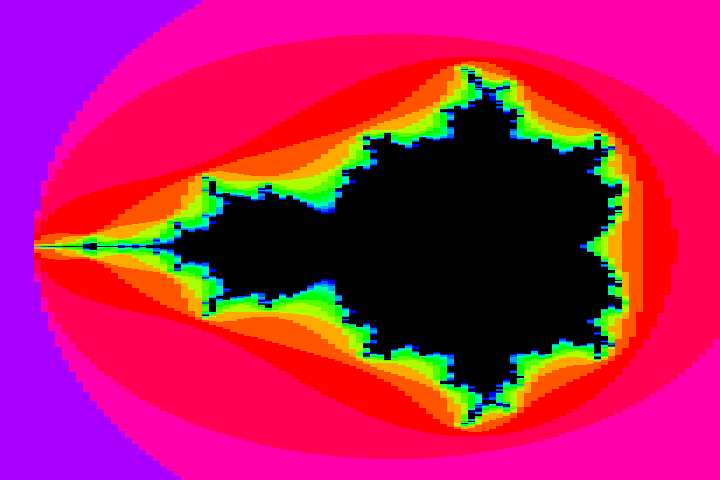
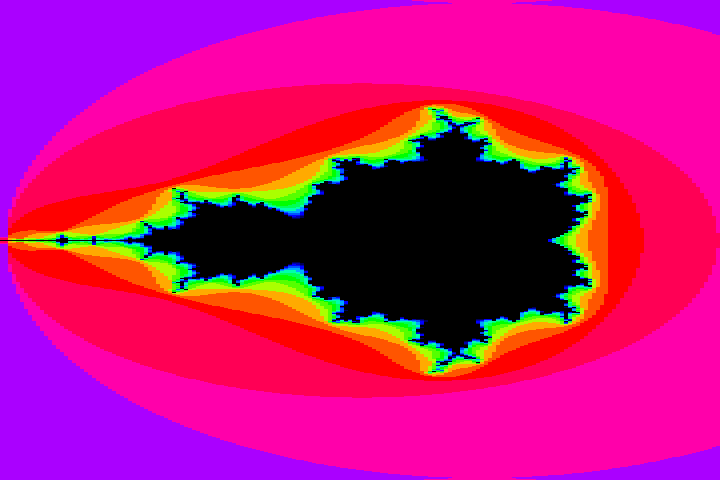
Update docs

diff --git a/docs/info.md b/docs/info.md
@@ -11,13 +11,13 @@ You can also include images in this folder and reference them in the markdown. E
 
 The Mandelbrot fractal is computed "racing the beam" and displayed through the [TinyVGA Pmod](https://github.com/mole99/tiny-vga).
 
-One iteration of the computation is done over two clock cycles, and a maximum iteration depth of 14 iterations is used.  The design is clocked at 100MHz, allowing four clock cycles per 25MHz pixel clock.  This means one value is computed every 7 pixels, giving a result like this:
+One iteration of the computation is done every clock cycle, and a maximum iteration depth of 16 iterations is used.  The design is clocked at 100MHz, allowing four clock cycles per 25MHz pixel clock.  This means one value is computed every 4 pixels, giving a result like this:
 
 ![The Mandelbrot set](mandelvga.png)
 
 The computation uses 16-bit fixed point arithmetic.  The multiplications are approximated to save area, giving a possible error in the least significant bit.  This gives at least 14-bit accuracy on each iteration.
 
-The output image is at a 720x480 resolution (~103x480 Mandelbrot pixels).
+The output image is at a 720x480 resolution (180x480 Mandelbrot pixels).
 
 ## How to test
 
@@ -40,7 +40,7 @@ These values should only be updated during vsync.
 | 6    | Set X increment per row to value[7:0] / 2^13 | 
 | 7    | Set Y increment per row to value[7:0] / 2^13 |
 
-Note there are 103 columns and 480 rows displayed.
+Note there are 180 columns and 480 rows displayed.
 
 ## External hardware
 
